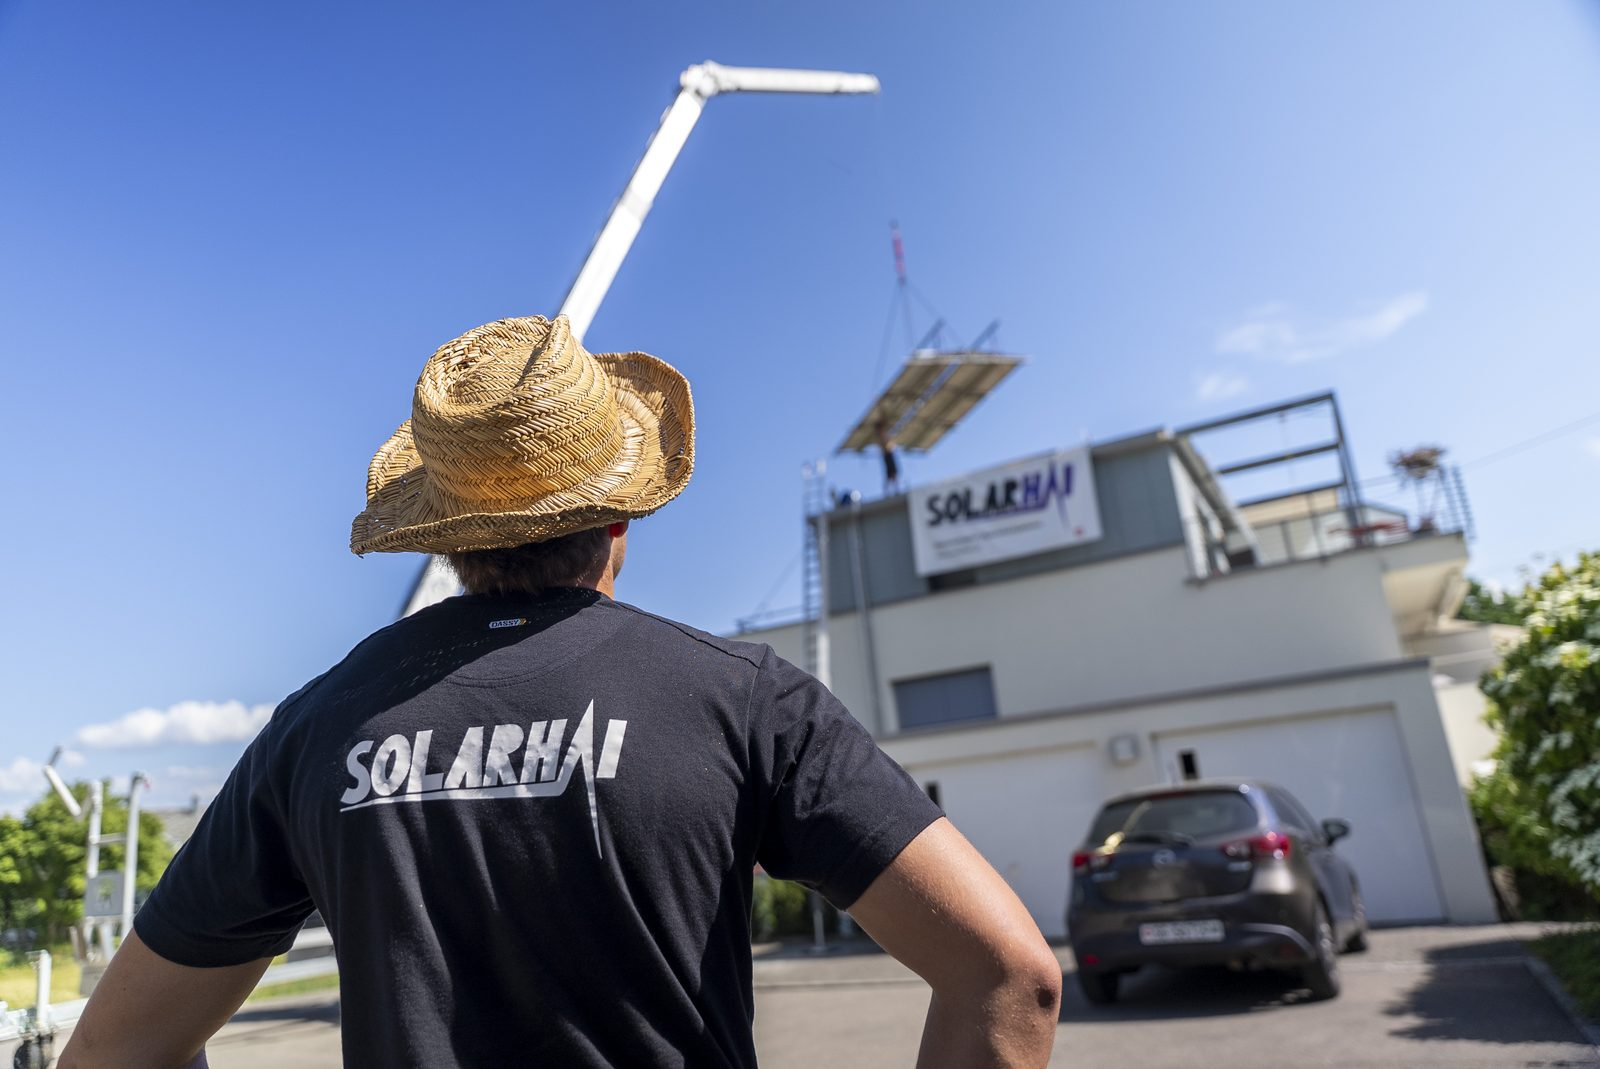
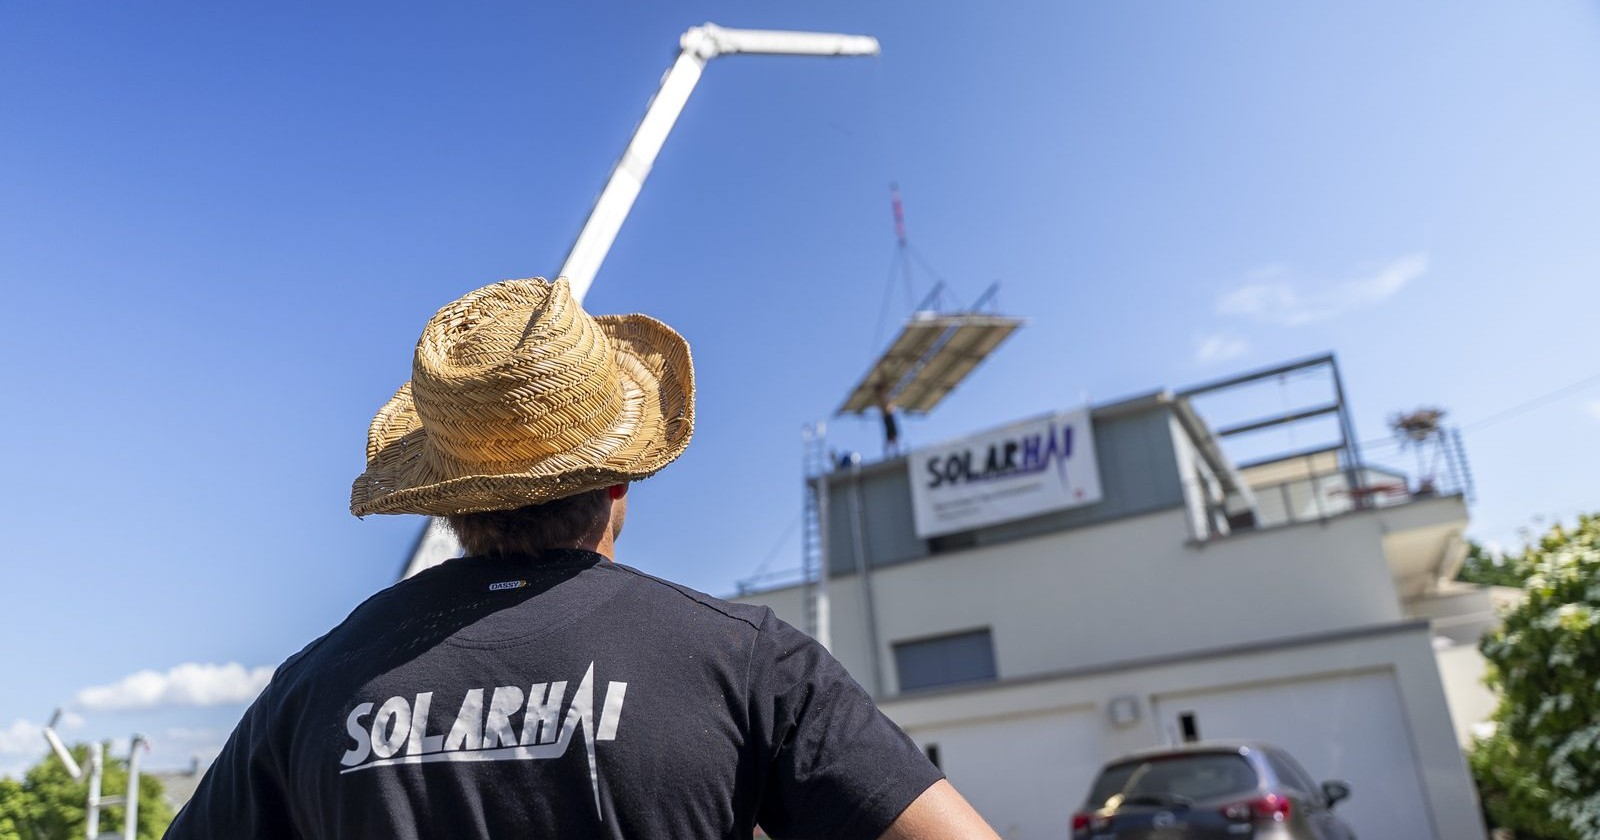
Seitenkopf mit Foto kompakter
Hoehe von clamp(400px, 52vw, 820px) auf clamp(280px, 32vw, 440px),
Innenabstand entsprechend kleiner. Bei 1280 px sind das 410 statt 666 px,
also 57 statt 92 Prozent der Bildschirmhoehe. Betrifft Dienstleistungen
und Solargeruest.

diff --git a/assets/style.css b/assets/style.css
@@ -733,11 +733,11 @@ body.is-arriving main{ animation: arrive .45s var(--ease) both; }
 .pagehead--photo{
   background: var(--bg-alt);
   border-bottom: 1px solid var(--border);
-  padding: clamp(3rem,6vw,4.5rem) clamp(1.25rem,4vw,3rem);
+  padding: clamp(2.5rem,5vw,3.75rem) clamp(1.25rem,4vw,3rem);
   color: var(--ink);
-  /* höher als ein normaler Seitenkopf: sonst schneidet object-fit:cover
-     bei breiten Bildschirmen den grössten Teil des Fotos weg */
-  min-height: clamp(400px, 52vw, 820px);
+  /* kompakt halten: der Seitenkopf ist eine Einleitung, kein zweiter Hero.
+     Etwas Bildbeschnitt durch object-fit:cover wird dafür in Kauf genommen. */
+  min-height: clamp(280px, 32vw, 440px);
   display: flex; align-items: center; justify-content: center;
 }
 .pagehead--photo .media{ background: var(--bg-alt); }
